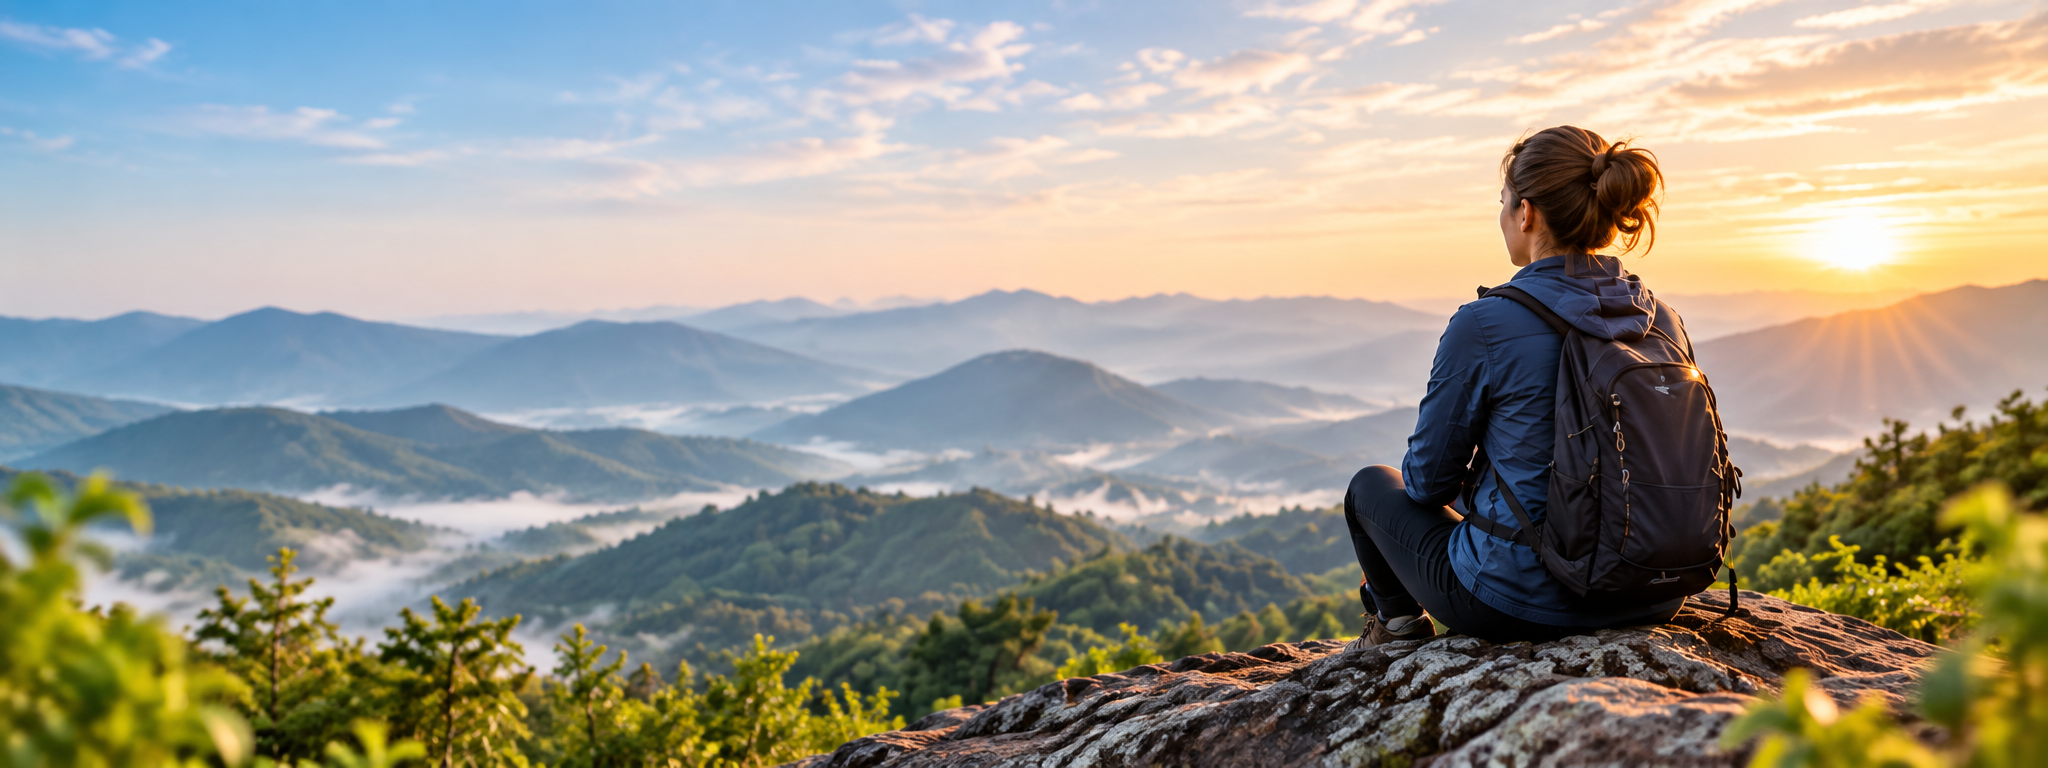
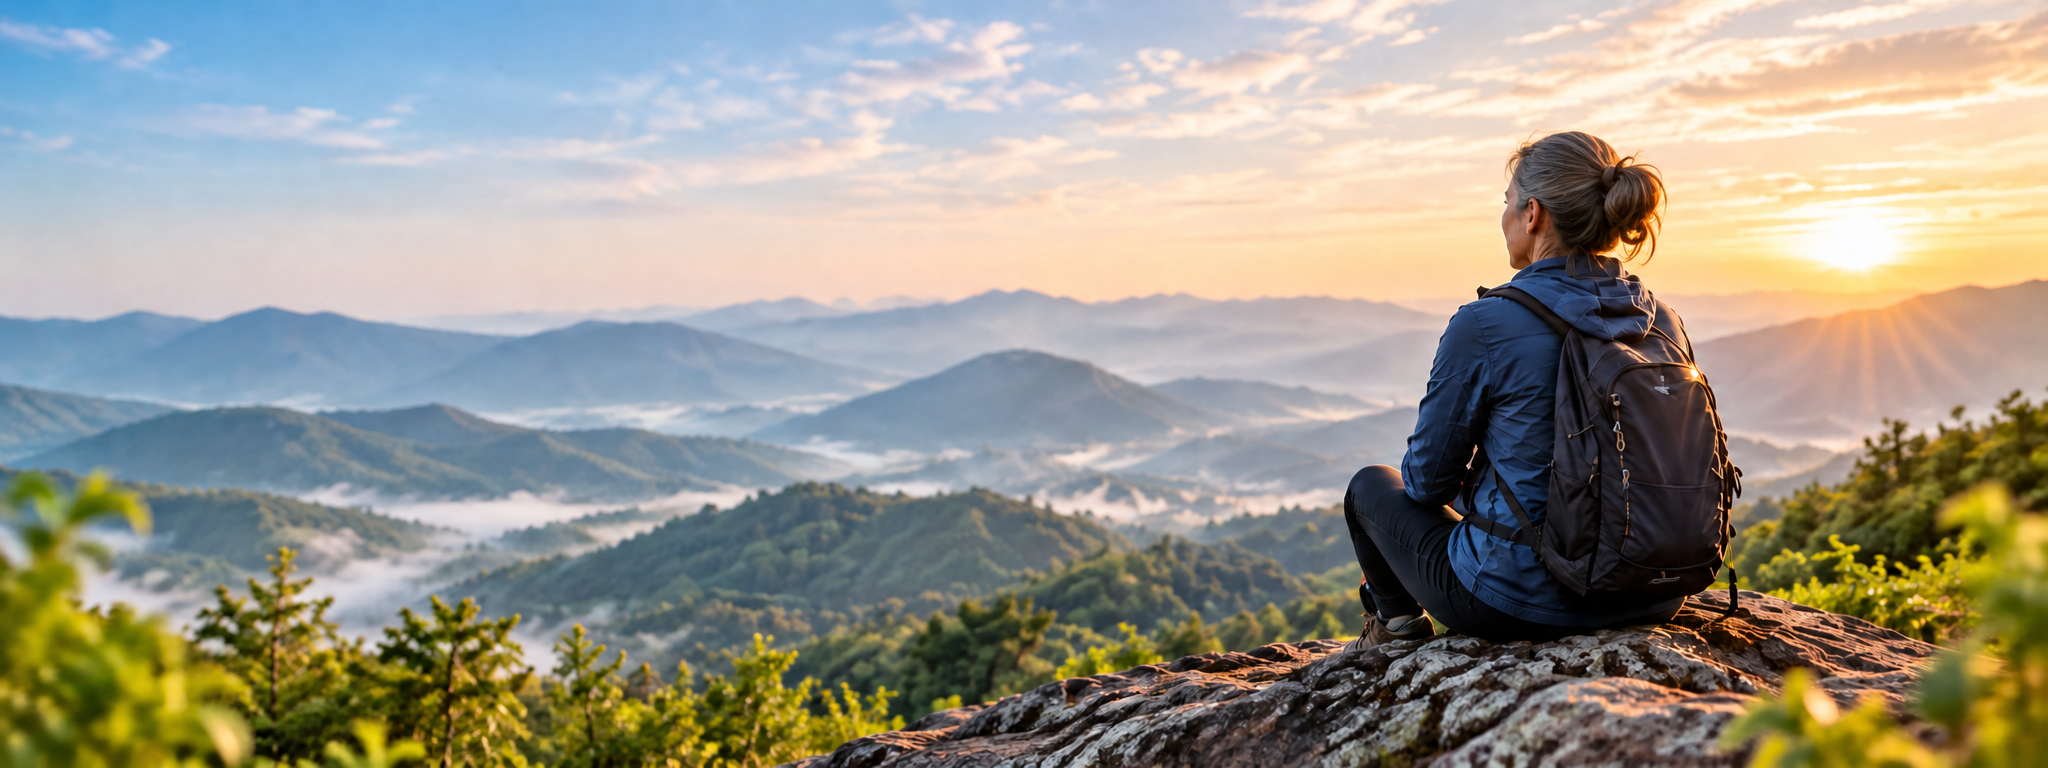
feat: update hero for mature audience and mobile

diff --git a/src/app/page.tsx b/src/app/page.tsx
@@ -23,10 +23,11 @@ function Rating() {
 export default function HomePage() {
   return (
     <div className="overflow-hidden bg-white text-[#082a55]">
-      <section className="relative min-h-[455px] overflow-hidden">
-        <Image src="/assets/home/hero-mountain.png" alt="A hiker overlooking a peaceful mountain sunrise" fill priority sizes="100vw" className="object-cover object-[64%_center]" />
-        <div className="absolute inset-0 bg-gradient-to-r from-white/95 via-white/55 to-transparent lg:via-white/10" />
-        <div className="home-container relative z-10 flex min-h-[455px] items-center py-12">
+      <section className="relative overflow-hidden bg-white sm:min-h-[455px]">
+        <Image src="/assets/home/hero-mountain.png" alt="An active woman over 45 overlooking a peaceful mountain sunrise" width={2048} height={768} priority sizes="100vw" className="h-auto w-full sm:hidden" />
+        <Image src="/assets/home/hero-mountain.png" alt="An active woman over 45 overlooking a peaceful mountain sunrise" fill priority sizes="100vw" className="hidden object-cover object-[64%_center] sm:block" />
+        <div className="absolute inset-0 hidden bg-gradient-to-r from-white/95 via-white/55 to-transparent sm:block lg:via-white/10" />
+        <div className="home-container relative z-10 flex items-center py-8 sm:min-h-[455px] sm:py-12">
           <div className="max-w-[700px]">
             <p className="mb-4 text-[12px] font-bold uppercase tracking-[0.23em] text-[#118860]">{homeContent.hero.eyebrow}</p>
             <h1 className="text-[37px] font-extrabold leading-[1.12] tracking-[-0.035em] text-[#082a55] sm:text-[42px] lg:text-[44px]">
